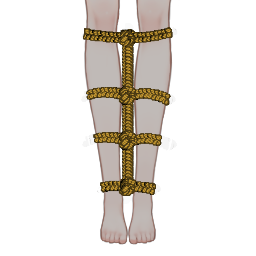
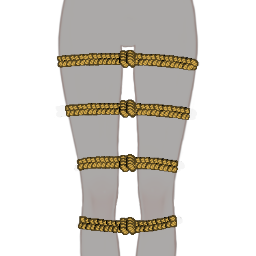
[CHANGE] Update legs jute rope preview

diff --git a/src/assets/foot_restraints/leg_jute_ropes/leg_jute_ropes.asset.ts b/src/assets/foot_restraints/leg_jute_ropes/leg_jute_ropes.asset.ts
@@ -9,7 +9,7 @@ DefineAsset({
 			default: '#D7AC4D',
 		},
 	},
-	// size:415, y:940, centered
+	// size:375, y:680, centered
 	preview: 'preview.png',
 	attributes: {
 		provides: [
